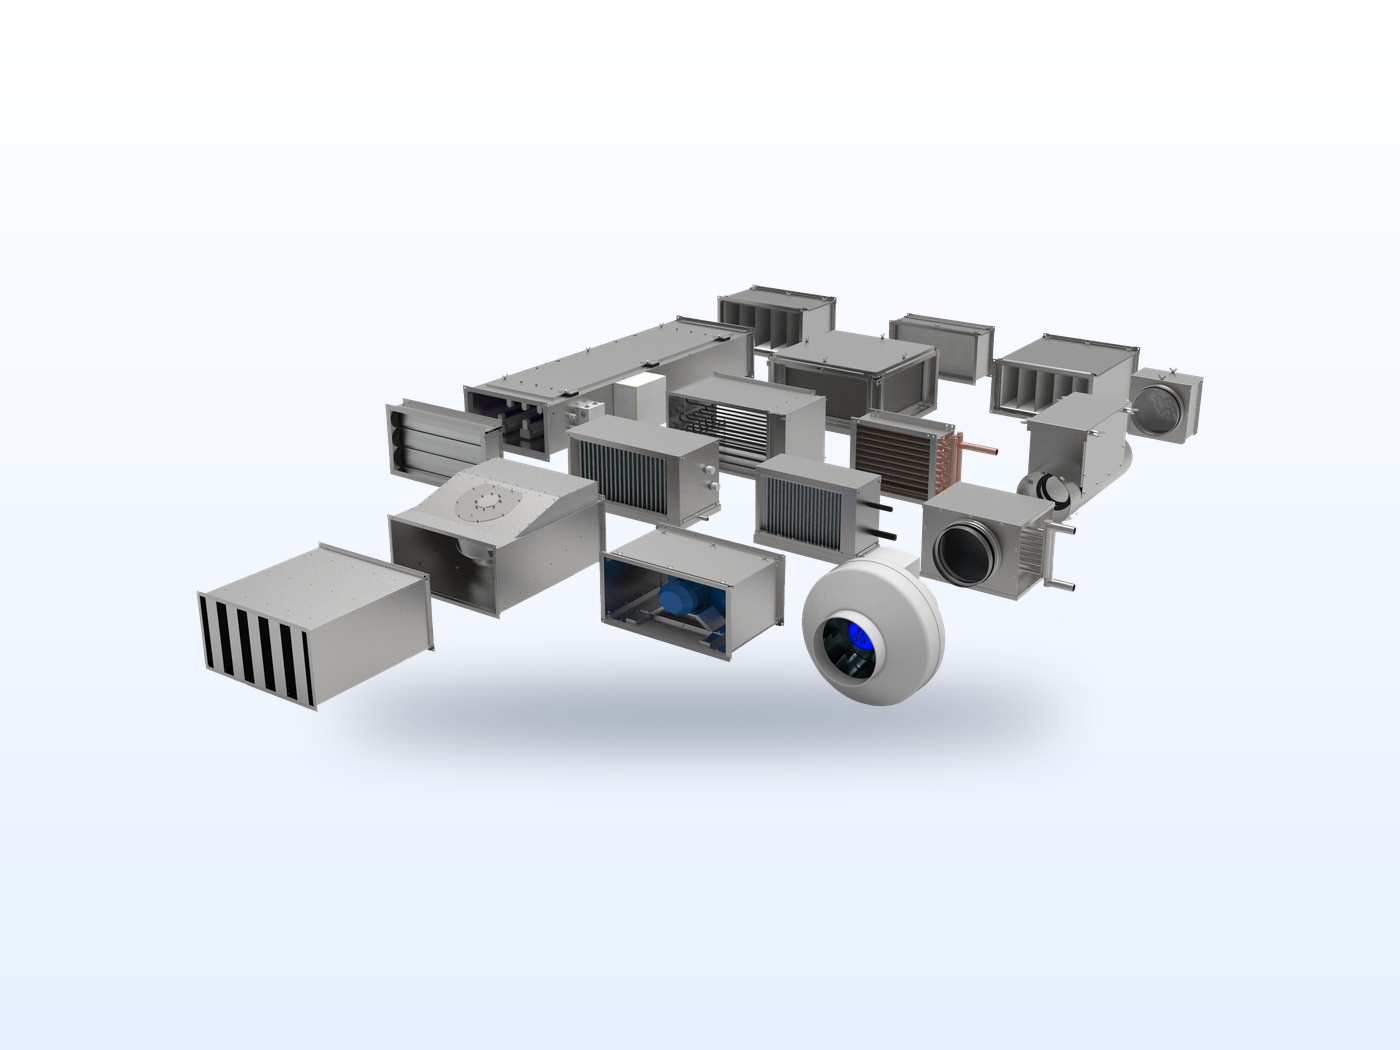
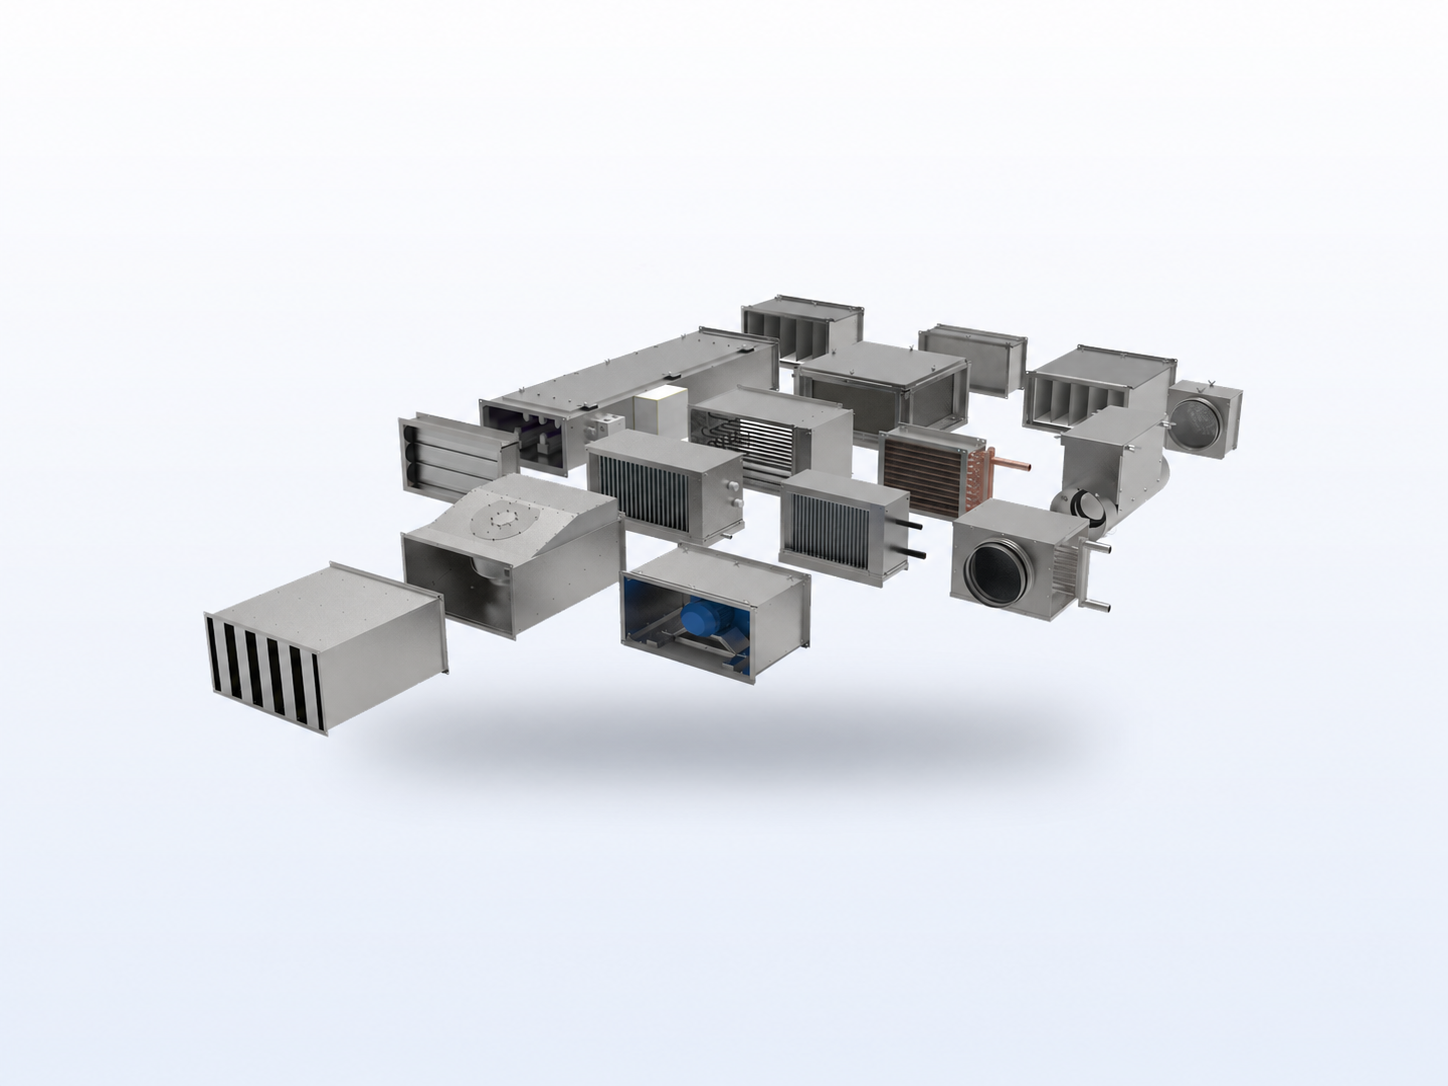
Use edited rectangular equipment collage

diff --git a/frontend/src/data/catalog.ts b/frontend/src/data/catalog.ts
@@ -30,6 +30,7 @@ export interface Group { key: string; title: string; }
 import { DUCT_PRODUCTS } from "./duct-products.generated";
 
 const P = (s: string) => `/photo/catalog/${s}.webp`;
+const RECTANGULAR_CHANNEL_COLLAGE = P("kanalnoe_oborudovanie_20260814");
 
 // Структура «Продукция» — утверждена мастер-задачей 20260717 (11 групп, порядок фиксирован).
 export const GROUPS: Group[] = [
@@ -220,7 +221,7 @@ export const PRODUCTS: Product[] = [
     blurb: "Канальное оборудование прямоугольного сечения: вентиляторы, нагреватели и охладители, рекуператоры, фильтры, заслонки, гибкие вставки, бактерицидные секции, шумоглушители.",
     advantages: ["Прямоугольное сечение под проект", "Полный ряд функциональных секций", "Совместимость в единой системе"],
     related: CHANNEL_RECT_MENU,
-    photo: P("kanalnoe_oborudovanie") },
+    photo: RECTANGULAR_CHANNEL_COLLAGE },
   // Старый общий хаб — оставлен ради существующих ссылок (URL не ломаем): ведёт на две новые группы.
   { slug: "kanalnoe-oborudovanie", group: "channel", marking: "Канальное", waer: "—",
     hideInMenu: true, hideInCatalog: true,
@@ -231,7 +232,7 @@ export const PRODUCTS: Product[] = [
       { label: "Круглое канальное оборудование →", to: "/product/kanalnoe-krugloe" },
       { label: "Прямоугольное канальное оборудование →", to: "/product/kanalnoe-pryamougolnoe" },
     ],
-    photo: P("kanalnoe_oborudovanie") },
+    photo: RECTANGULAR_CHANNEL_COLLAGE },
 
   // НАГРЕВ / ОХЛАЖДЕНИЕ
   { slug: "vodyanye-vozduhonagrevateli-rw", group: "heaters", hideInMenu: true, hideInCatalog: true, marking: "RW", waer: "DRW / DH",
